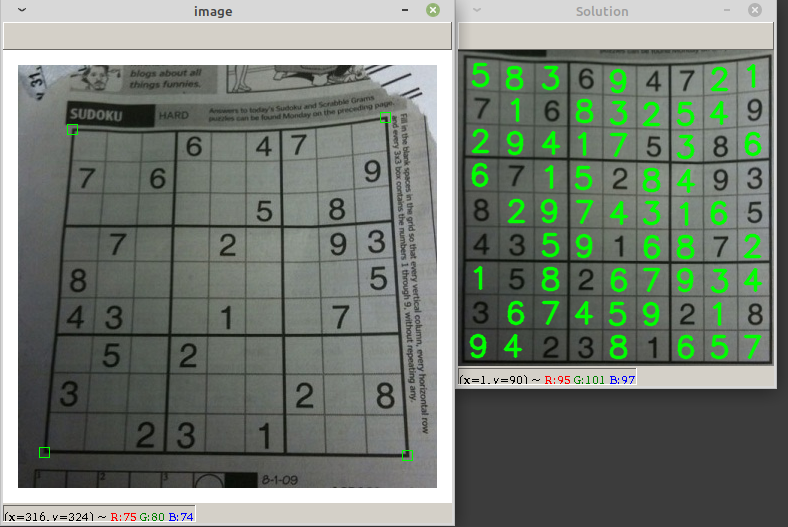
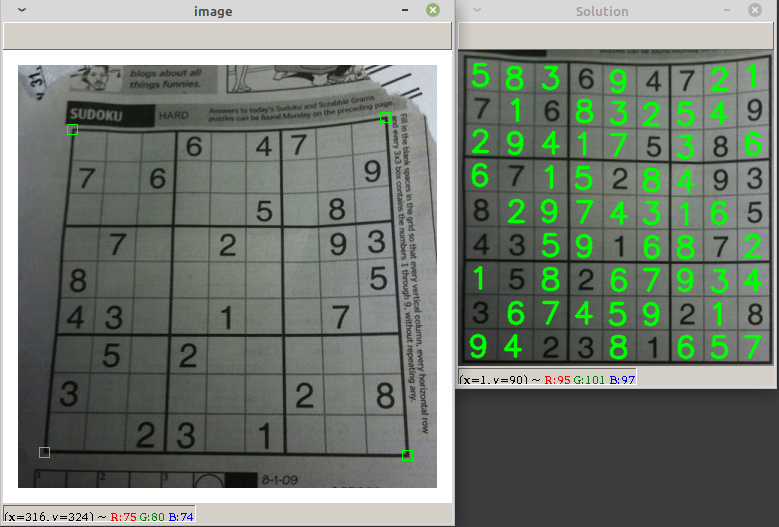
Fix puzzle solving algorithm to use constraint propogation

diff --git a/puzzleSolver.py b/puzzleSolver.py
@@ -1,0 +1,145 @@
+import numpy as np
+
+def cross(A, B):
+    """
+    Cross product of A and B
+    """
+    return [a + b for a in A for b in B]
+
+digits = '123456789'
+rows = 'ABCDEFGHI'
+cols = digits
+squares = cross(rows, cols)
+
+# List of all possible units (rows, columns, squares
+unitlist = ([cross(rows, c) for c in cols] +
+            [cross(r, cols) for r in rows] +
+            [cross(rs, cs) for rs in ('ABC', 'DEF', 'GHI') for cs in ('123', '456', '789')])
+
+# Dictionary mapping squares to their units
+units = dict((s, [u for u in unitlist if s in u]) for s in squares)
+# Dictionary mapping squares to their peers (all other squares in thier unit) 
+peers = dict((s, set(sum(units[s], [])) - set([s])) for s in squares)
+
+def grid_values(grid):
+    """
+    Create dictionary from ndarray, mapping squares to their initial values
+    """
+    return dict(zip(squares, map(str, grid.flatten())))
+
+def parse_grid(grid):
+    """
+    Parses grid into dictionary of key = sq, val = string of possible values
+    """
+    values = dict((s, digits) for s in squares)
+    for s, d in grid_values(grid).items():
+        if d in digits and not assign(values, s, d):
+            return False # Can't assign value to this square!
+    return values
+
+def eliminate(values, s, d):
+    """
+    Eliminate d from values[s].  Propogate when values or places is <= 2.
+    Return False if contradiction is detected, else return values.
+    """
+    if d not in values[s]:
+        return values # d has already been eliminated
+    values[s] = values[s].replace(d, '') # eliminate d
+
+    # If a square is reduced to 0 values (no legal values), there is a contradiction.
+    if len(values[s]) == 0:
+        return False 
+
+    # If a square is reduced to only one value, d2, then eliminate d2 from all of its peers
+    # and ensure that all of them still have legal values
+    elif len(values[s]) == 1:
+        d2 = values[s]
+        if not all(eliminate(values, s2, d2) for s2 in peers[s]):
+            return False
+
+    # If a unit is reduced to only one possible place for a value d, 
+    # then place d there and propigate
+    for u in units[s]: 
+        # s = square
+        # d = digit in question
+        # units[s] = units containing square s
+        # u = a unit (row, col, square)
+        # values[s] = possible values for square s
+
+        # Find all places in the each unit s belongs to where d can go
+        dplaces = [s for s in u if d in values[s]]
+        # If there are no places d can go, there is a contradiction
+        if len(dplaces) == 0:
+            return False 
+        if len(dplaces) == 1:
+            if not assign(values, dplaces[0], d):
+                return False
+    return values
+
+def assign(values, s, d):
+    """
+    Eliminate all values (except d) from values[s] and propogate.
+    Return False if a contradiction is detected, else return values.
+    """
+    other_values = values[s].replace(d, '')
+    if all(eliminate(values, s, d2) for d2 in other_values):
+        return values
+    else:
+        return False
+
+def search(values):
+    # Failed somewhere earlier in search
+    if values is False:
+        return False 
+    # Solved!
+    if all(len(values[s]) == 1 for s in squares):
+        return values 
+    # Chose the unfilled square with the fewest possibilities
+    n, s = min((len(values[s]), s) for s in squares if len(values[s]) > 1)
+    # Run through all possiblities for the square, returning a correct 
+    # solution if it exists.  Copy the values for each attempted value 
+    # to avoid dealing with bookkeeping for backtracking.
+    return some(search(assign(values.copy(), s, d)) for d in values[s])
+   
+def some(seq):
+    for e in seq:
+        if e:
+            return e
+    return False
+
+def formatOutput(values):
+    return np.array([int(x[1]) for x in sorted((s, d) for s, d in values.items())]).reshape(9,9)
+
+def solve(grid):
+    return formatOutput(search(parse_grid(grid)))
+
+def test():
+    """
+    A set of unit tests.
+    """
+
+    assert len(squares) == 81
+    assert len(unitlist) == 27
+    assert all(len(units[s]) == 3 for s in squares)
+    assert all(len(peers[s]) == 20 for s in squares)
+    assert units['C2'] == [['A2', 'B2', 'C2', 'D2', 'E2', 'F2', 'G2', 'H2', 'I2'],
+                           ['C1', 'C2', 'C3', 'C4', 'C5', 'C6', 'C7', 'C8', 'C9'],
+                           ['A1', 'A2', 'A3', 'B1', 'B2', 'B3', 'C1', 'C2', 'C3']]
+    assert peers['C2'] == set(['A2', 'B2', 'D2', 'E2', 'F2', 'G2', 'H2', 'I2',
+                               'C1', 'C3', 'C4', 'C5', 'C6', 'C7', 'C8', 'C9',
+                               'A1', 'A3', 'B1', 'B3'])
+    print('All basic tests passed.')
+    with open('./test/top95.txt') as f:
+        line = True
+        count = 0
+        while line:
+            line = f.readline().strip()
+            if len(line) == 81:
+                count += 1
+                parsed = (np.array([int(x) if ord(x) >= ord('1') and ord(x) <= ord('9') else 0 for x in line]).reshape((9,9)))
+                print('Puzzle {}\n'.format(count), parsed)
+                print('Puzzle {} Solution\n'.format(count), solve(parsed))
+        print('Solved {} puzzles successfully'.format(count))
+
+if __name__ == "__main__":
+    test()

diff --git a/templateMatch.py b/templateMatch.py
@@ -1,7 +1,6 @@
 import cv2
 import argparse
 import joblib
-from collections import namedtuple
 
 from sklearn.ensemble import RandomForestClassifier
 import matplotlib.pyplot as plt
@@ -9,7 +8,7 @@ import numpy as np
 
 from coordTransform import coordTransform
 from getPoints import getSquare
-from solvePuzzle import solvePuzzle
+from puzzleSolver import solve
 
 def createSquareMask(sz, t):
     """
@@ -136,7 +135,7 @@ if __name__ == "__main__":
     _, parsedNums = parseSumsNums(tformed, parsedSquares)
     p = np.array(parsedNums)
     print(p)
-    s = solvePuzzle(p)
+    s = solve(p)
     print(s)
 
     cv2.namedWindow("Solution")

diff --git a/old/bruteForceSolver.py b/old/bruteForceSolver.py
@@ -29,6 +29,7 @@ def solvePuzzle(p):
     return c
 
 if __name__ == "__main__":
+    """
     test = [[0,0,0,0,0,0,0,0,0],
             [0,0,0,0,0,3,0,8,5],
             [0,0,1,0,2,0,0,0,0],
@@ -43,12 +44,11 @@ if __name__ == "__main__":
             [7,0,6,0,0,0,0,0,9],
             [0,0,0,0,0,5,0,8,0],
             [0,7,0,0,2,0,0,9,3],
-            [8,0,0,0,0,0,0,0,5],
+            [9,0,0,0,0,0,0,0,5],
             [4,3,0,0,1,0,0,7,0],
             [0,5,0,2,0,0,0,0,0],
             [3,0,0,0,0,0,2,0,8],
             [0,0,2,3,0,1,0,0,0]]
-    """
     t = np.array(test)
     s = solvePuzzle(t)
     print(s)

diff --git a/README.md b/README.md
@@ -17,7 +17,8 @@ This project aims to take any picture of a sudoku puzzle, extract its contents u
     - Classifier (random forest) has been trained on ~900 numbers parsed from images gathered from the internet.  Cross validated accuracy for digit recogintion is around 98%.  Will continue to gather images to improve classifier.
 
 - **Solve the Sudoku puzzle**
-	- In progress! The solvePuzzle.py script solves a Sudoku puzzle represented as numpy ndarray using a brute force backtracking method.  This method is not viable for less constrained puzzles and takes too long.  Logic needs improvemnet to solve more difficult puzzles.
+	- ~~The solvePuzzle.py script solves a Sudoku puzzle represented as numpy ndarray using a brute force backtracking method.  This method is not viable for less constrained puzzles and takes too long.  Logic needs improvemnet to solve more difficult puzzles.~~
+    - Complete! Adapted code from [Peter Norvig's excellent post on the problem](https://norvig.com/sudoku.html) to rewrite the Sudoku solver.  The new algorithm uses a recursive search in conjunction with constraint propogation to limit the scope of the solution search.
 
 - **Overlay the solution to the puzzle on the original image**
 	- Complete!
@@ -28,6 +29,6 @@ This project aims to take any picture of a sudoku puzzle, extract its contents u
 - ~~Train a supervised learning model to correctly identify numbers.~~
 - ~~Use the trained model to classify numbers from new puzzles.~~
 - ~~Overlay the results of solving the sudoku puzzle on the original image.~~
-- Improve puzzle solver logic to work with less constrained (harder) puzzles
+- ~~Improve puzzle solver logic to work with less constrained (harder) puzzles~~
 - Clean up and comment code, run a linter. 
 - Continue to gather and ingest sudoku images to improve the classifier.
